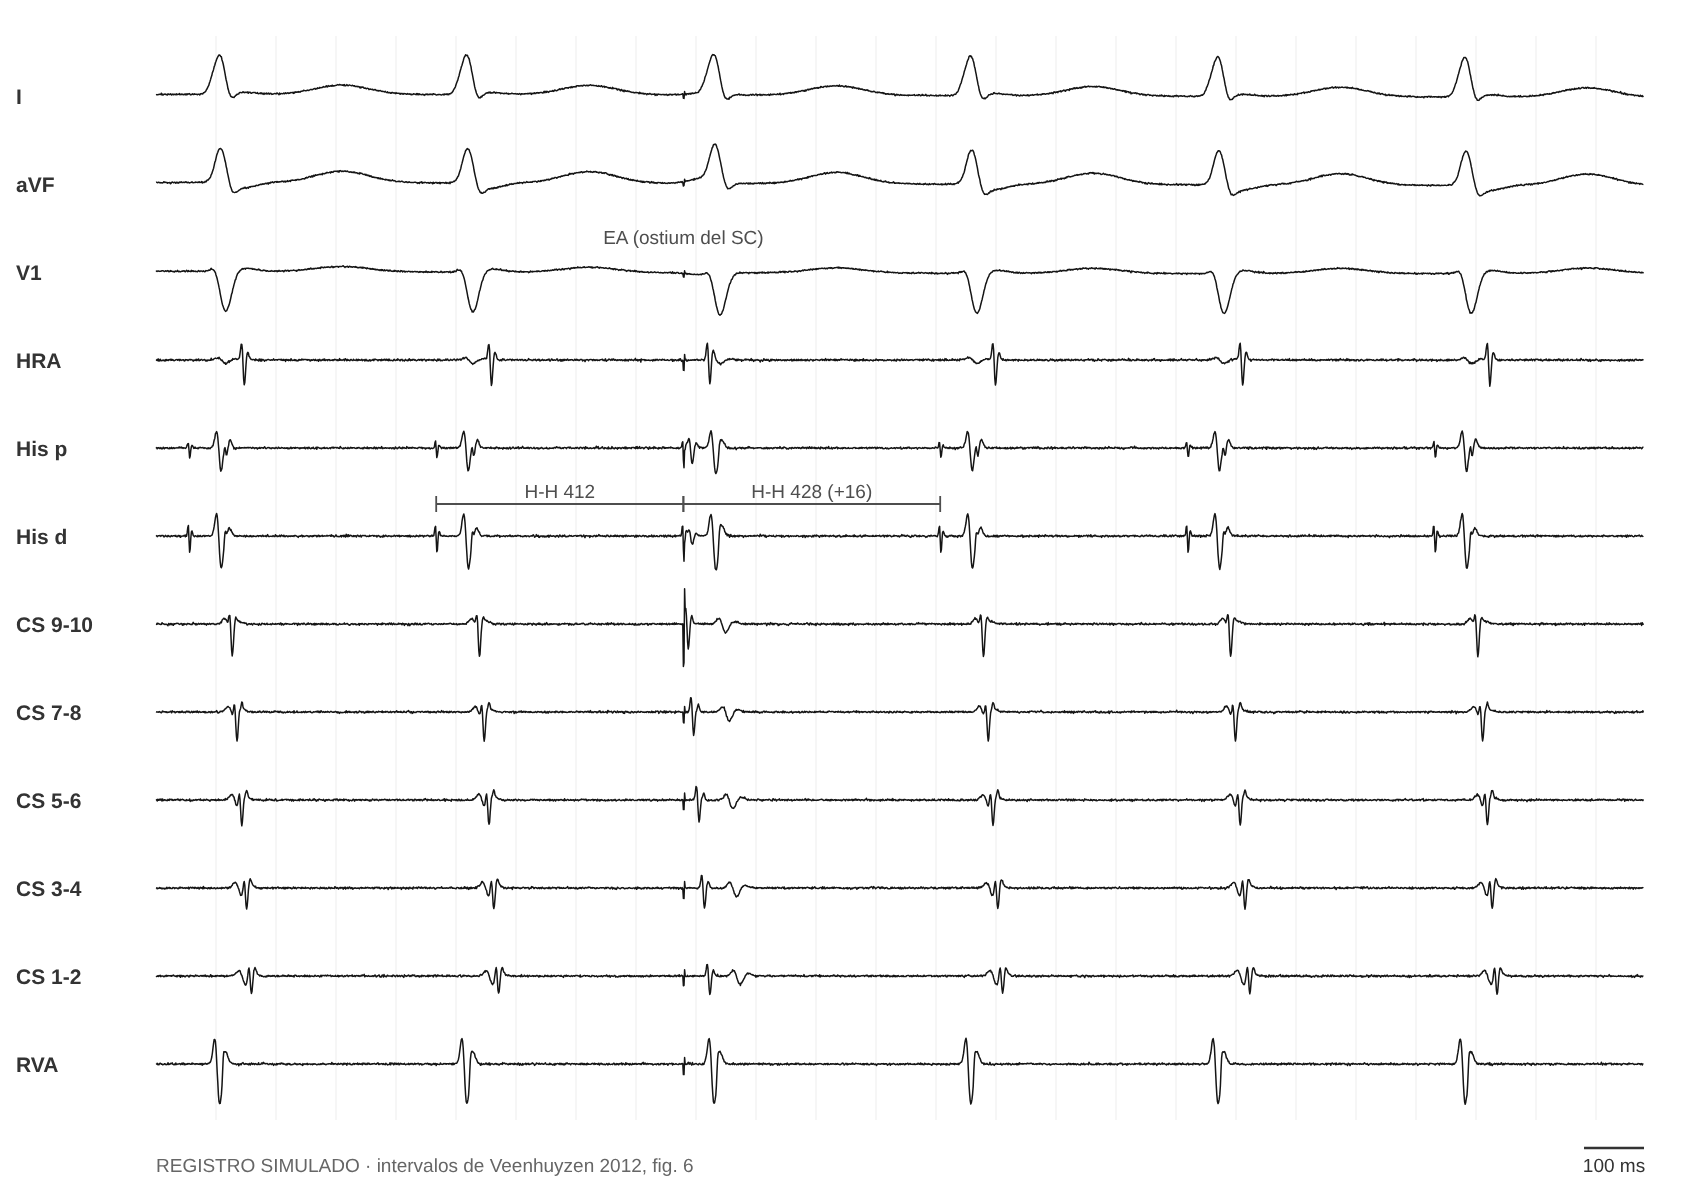
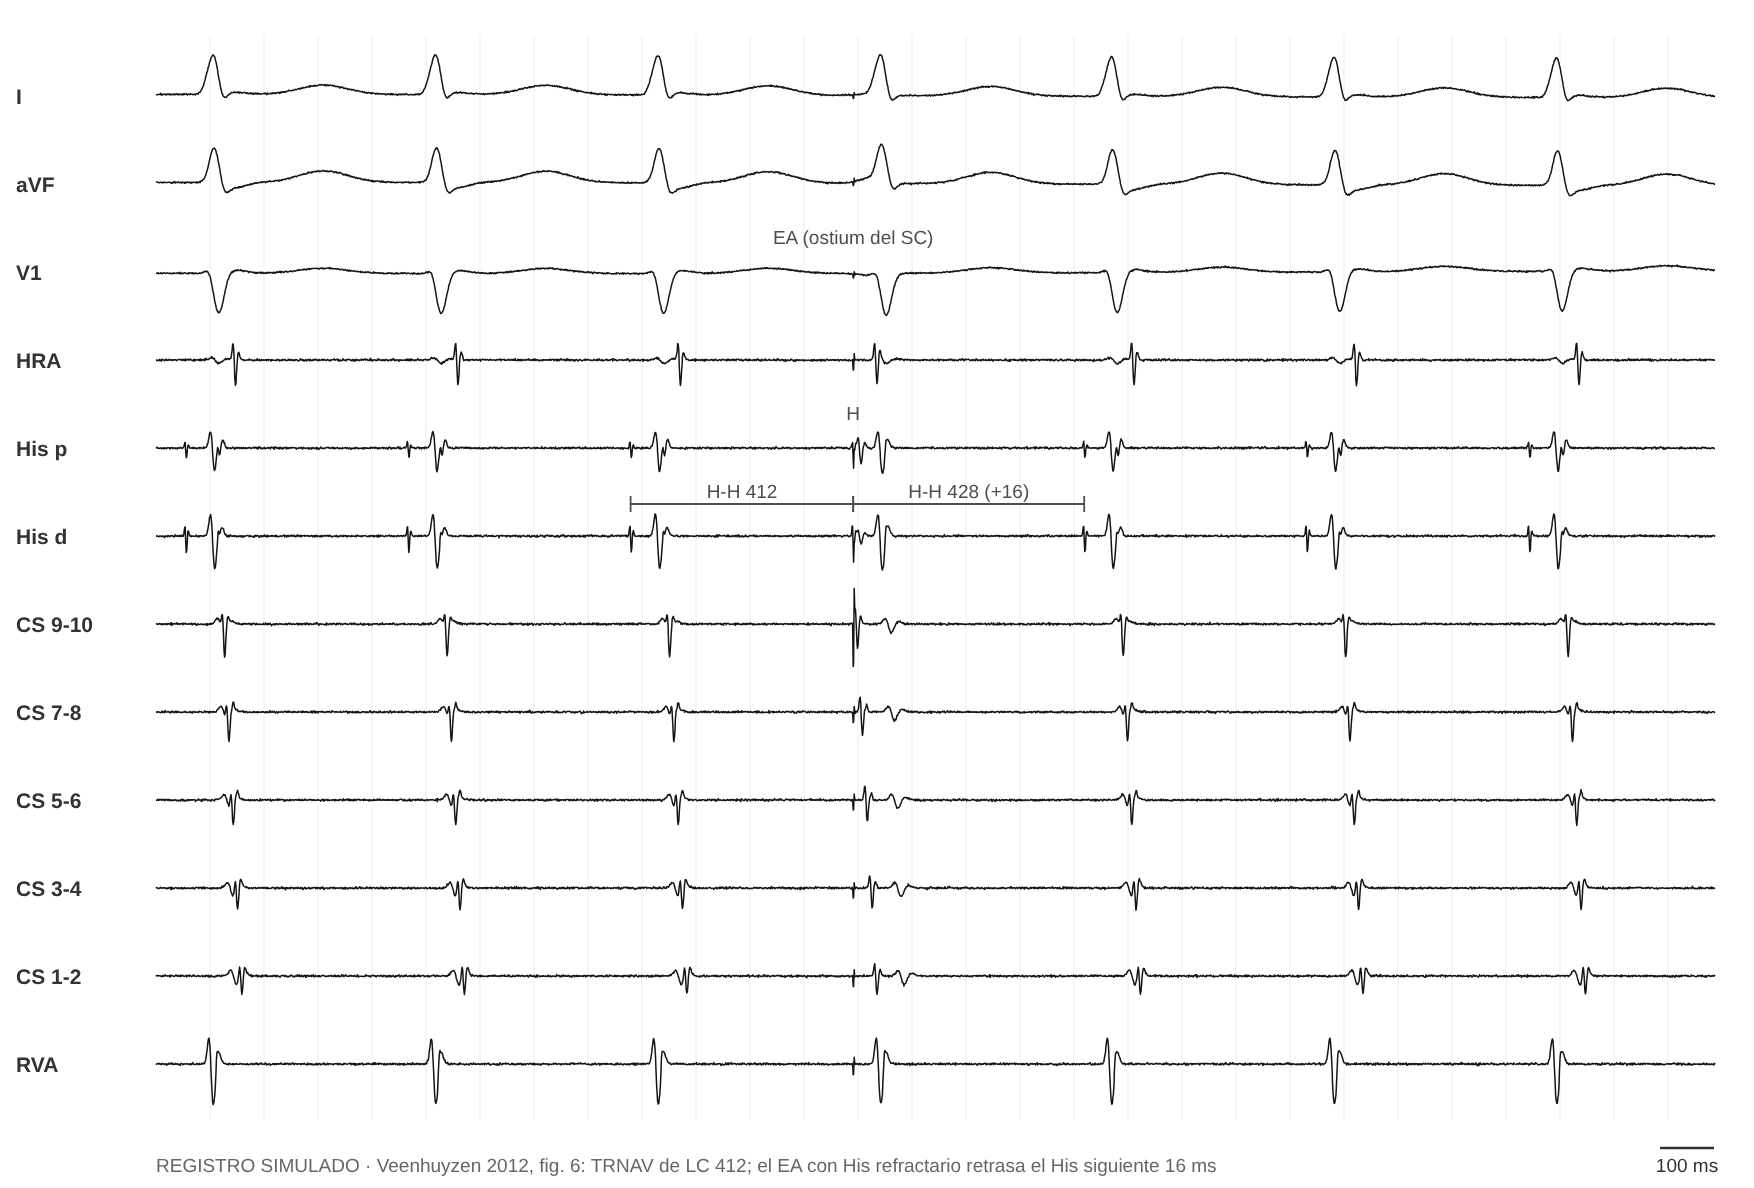
EA con His refractario: más latidos de base antes del EA
Claude-Session: https://claude.ai/code/session_01Pw5rjt62KK5LeJZoEyFiaM

diff --git a/sw.js b/sw.js
@@ -1,6 +1,6 @@
 // Permite instalar la app y abrirla sin conexión. Primero la red (siempre lo último publicado); si no hay, la copia.
 // Si cambiás un archivo, subí CACHE_VERSION.
-const CACHE_VERSION = 'mef-v41';
+const CACHE_VERSION = 'mef-v42';
 const ARCHIVOS = ['./', './index.html', './manifest.json', './iconos/icon-192.png', './iconos/icon-512.png'];
 self.addEventListener('install', e => e.waitUntil(caches.open(CACHE_VERSION).then(c => c.addAll(ARCHIVOS)).then(() => self.skipWaiting())));
 self.addEventListener('activate', e => e.waitUntil(caches.keys().then(ks => Promise.all(ks.filter(k => k !== CACHE_VERSION).map(k => caches.delete(k)))).then(() => self.clients.claim())));

diff --git a/herramientas/simulador/cases2.py b/herramientas/simulador/cases2.py
@@ -41,17 +41,19 @@ S['veen11_fusion'] = dict(win=(-100, 2180), pxms=0.34, src='intervalos de Veenhu
     marks=[(sp[0] + 10, 'V1', 'fusión'), (h_orto[0], 'His p', 'H ortodr.')])
 
 # C. Veenhuyzen 2012, fig. 6: TRNAV típica (LC 412); EA desde el ostium del SC con His refractario retrasa el His 16 ms.
+#    4 latidos de base antes del EA.
 LC = 412; VA = 15
-v = [0, 412, 824]
-apb = 2 * LC - HV                              # en el momento del His esperado
+v = [i * LC for i in range(4)]
+apb = v[3] - HV                                # en el momento del His esperado
 h_next = apb + LC + 16
 vs = v + [h_next + HV, h_next + HV + LC, h_next + HV + 2 * LC]
-atr = [(x + VA, 'conc_his', -1) for x in v[:2]] + [(apb + 4, 'conc_cs', 1)] + [(x + VA, 'conc_his', -1) for x in vs[3:]]
-S['veen12_eav'] = dict(win=(-100, 2380), pxms=0.30, src='intervalos de Veenhuyzen 2012, fig. 6',
+atr = [(x + VA, 'conc_his', -1) for x in v[:3]] + [(apb + 4, 'conc_cs', 1)] + [(x + VA, 'conc_his', -1) for x in vs[4:]]
+S['veen12_eav'] = dict(win=(-100, vs[-1] + 300), pxms=0.27,
+    src='Veenhuyzen 2012, fig. 6: TRNAV de LC 412; el EA con His refractario retrasa el His siguiente 16 ms',
     beats=[(x, 'n') for x in vs], aspikes=[apb], apace_ch='CS 9-10',
     atr=atr, h_ante=[x - HV for x in vs],
-    cal=[(v[1] - HV, v[2] - HV, 'His d', 'H-H 412'), (v[2] - HV, h_next, 'His d', 'H-H 428 (+16)')],
-    marks=[(apb, 'V1', 'EA (ostium del SC)')])
+    cal=[(v[2] - HV, v[3] - HV, 'His d', 'H-H 412'), (v[3] - HV, h_next, 'His d', 'H-H 428 (+16)')],
+    marks=[(apb, 'V1', 'EA (ostium del SC)'), (apb, 'His p', 'H')])
 
 # D. Veenhuyzen 2012, fig. 7: taquicardia de la unión (LC 560); EA desde la AD alta adelanta el His inmediato 38 ms y la TSV sigue.
 LC = 560

diff --git a/PENDIENTES.md b/PENDIENTES.md
@@ -21,7 +21,7 @@ En todos conviene mirar las amplitudes y la morfología del QRS, la visibilidad 
 - [ ] [ver](https://drsebastianmaldonado.github.io/Maniobras-EEF/figs/sim/arias10.png) **Arias 2010** (RP largo con valores de TRNAV): encarrilamiento con 6 estímulos a 465 (ilustrativo, no publicado), A-A 465, LC 480, VA 296, SA 438, HA 338 y 394, PPI 624.
 - [ ] [ver](https://drsebastianmaldonado.github.io/Maniobras-EEF/figs/sim/veen12_vai.png) **Veenhuyzen 2012, fig. 4** (índice VA): dos paneles, ápex (VA 142) y posterobasal (VA 120); LC de estimulación 600 ilustrativa.
 - [ ] [ver](https://drsebastianmaldonado.github.io/Maniobras-EEF/figs/sim/veen12_ehr.png) **Veenhuyzen 2012, fig. 1** (EV con His refractario): A-A previo 444 y A-A adelantado 425 (−19); secuencia auricular de la vía derecha y QRS fusionado. VA 150 ilustrativo.
-- [ ] [ver](https://drsebastianmaldonado.github.io/Maniobras-EEF/figs/sim/veen12_eav.png) **Veenhuyzen 2012, fig. 6** (EA con His refractario en la TRNAV).
+- [ ] [ver](https://drsebastianmaldonado.github.io/Maniobras-EEF/figs/sim/veen12_eav.png) **Veenhuyzen 2012, fig. 6** (EA con His refractario en la TRNAV): 4 latidos de base, H-H 412 y H-H 428 (+16).
 - [ ] [ver](https://drsebastianmaldonado.github.io/Maniobras-EEF/figs/sim/veen12_jt.png) **Veenhuyzen 2012, fig. 7** (taquicardia de la unión): secuencia del EA desde la AD alta y His adelantado.
 - [ ] [ver](https://drsebastianmaldonado.github.io/Maniobras-EEF/figs/sim/kaneko11.png) **Kaneko 2011** (2:1): asumí bloqueo por encima del His (sin H en los ciclos bloqueados).
 - [ ] [ver](https://drsebastianmaldonado.github.io/Maniobras-EEF/figs/sim/gardey21.png) **Gardey 2021** (nodos gemelos): canales "Nodo sup.", "Nodo inf." y "AD lateral".
